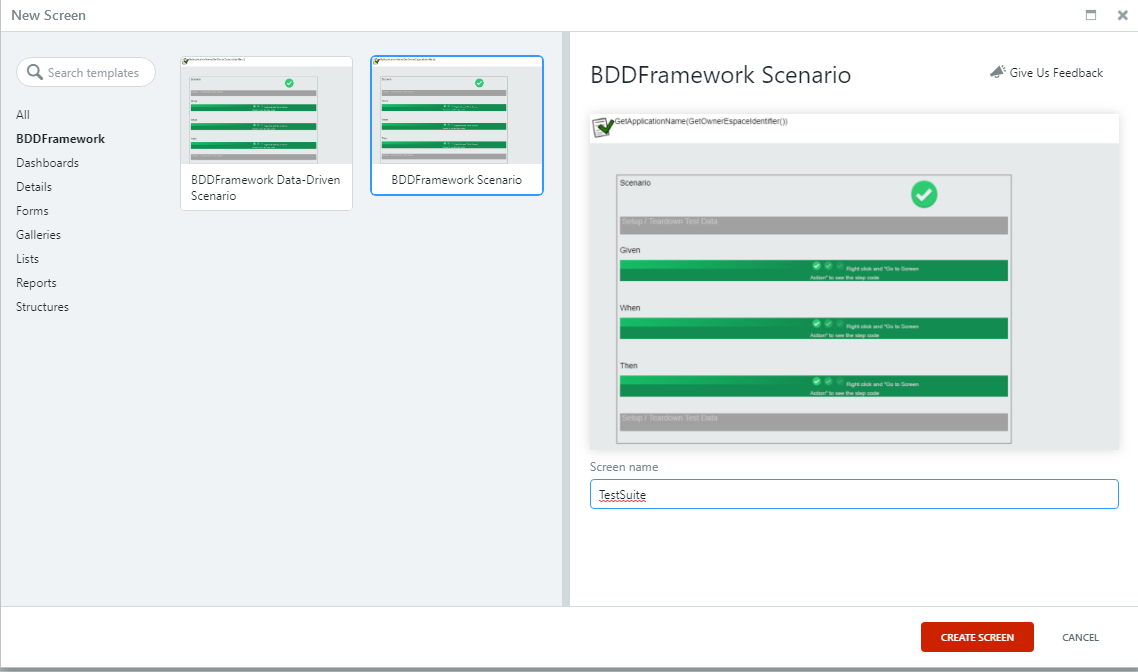
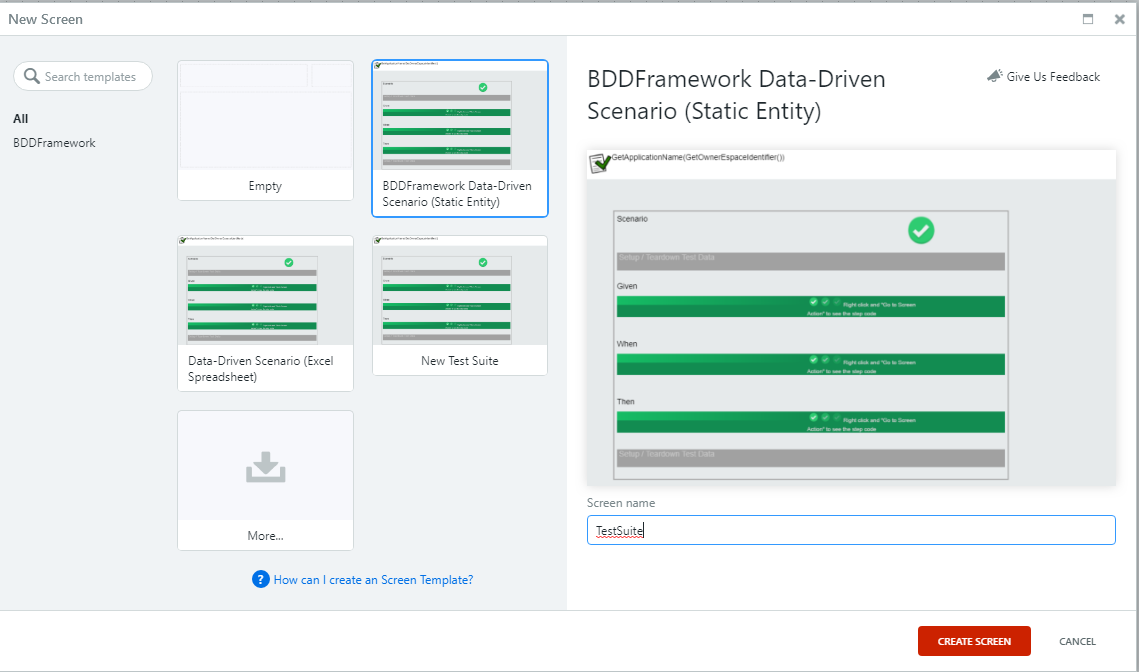
update howto

diff --git a/how-to/How-to-get-started-with-the-BDD-testframework.md b/how-to/How-to-get-started-with-the-BDD-testframework.md
@@ -52,19 +52,16 @@ In LifeTime create a new application using the bddframework template.
     * Upload an icon. (We recommend to use the same icon as the application with a test watermark added)
 
 * Open the new application in ServiceStudio and create a new BDDFramework module name it like the module you are testing with the suffix `_Test`
-* In the MainTestFlow add a new BDDFramework Scenario screen and name it `TestSuite`. Please note that you ***must*** name the screen `TestSuite` for the reporting tool to work.
+* In the MainTestFlow add a new screen and select the BDDFramework Data Drive Scenario (Static Enitity) template and name it `TestSuite`. Please note that you ***must*** name the screen `TestSuite` for the reporting tool to work.
 
 ![Create TestSuite Screen](images\CreateTestSuiteScreen.png)
 
-* This action also adds a WebBlock `sample_test` that we keep as a template
-* Rename the sample_test screen actions to:
-    * a_Setup
-    * b_Given
-    * c_When
-    * d_Then
-    * e_Teardown
+* This action also adds a WebBlock `DataDrivenDb_Scenario` that we keep as a template
+Together with this webblock a static entity named TestData is created and an aggregate is added to the preparation.
 
-* Open the `TestSuite` screen and remove the `Sample_Test` WebBlock from the Mainflow
+* Open the `TestSuite` screen and remove the `ScenarioListRecords` from the widget tree
+* Move the WebBlock to the templates UIFlow
+* Delete the GetTestData aggregate from the preparation
 * Set the module description to "`<tested module name>` tests module using BDDFramework"
 * Publish the module
 
@@ -81,6 +78,9 @@ In LifeTime create a new application using the service template.
     * Name: `<tested module name>` Core Tests
     * Description: Wrapper of common reused tests logic
     * Upload an icon. (We recommend to use the same icon as the application with a test watermark added)
+
+TODO Adjust howto from here!
+
 * Publish the Module
 
 ## Building a test scenario example
